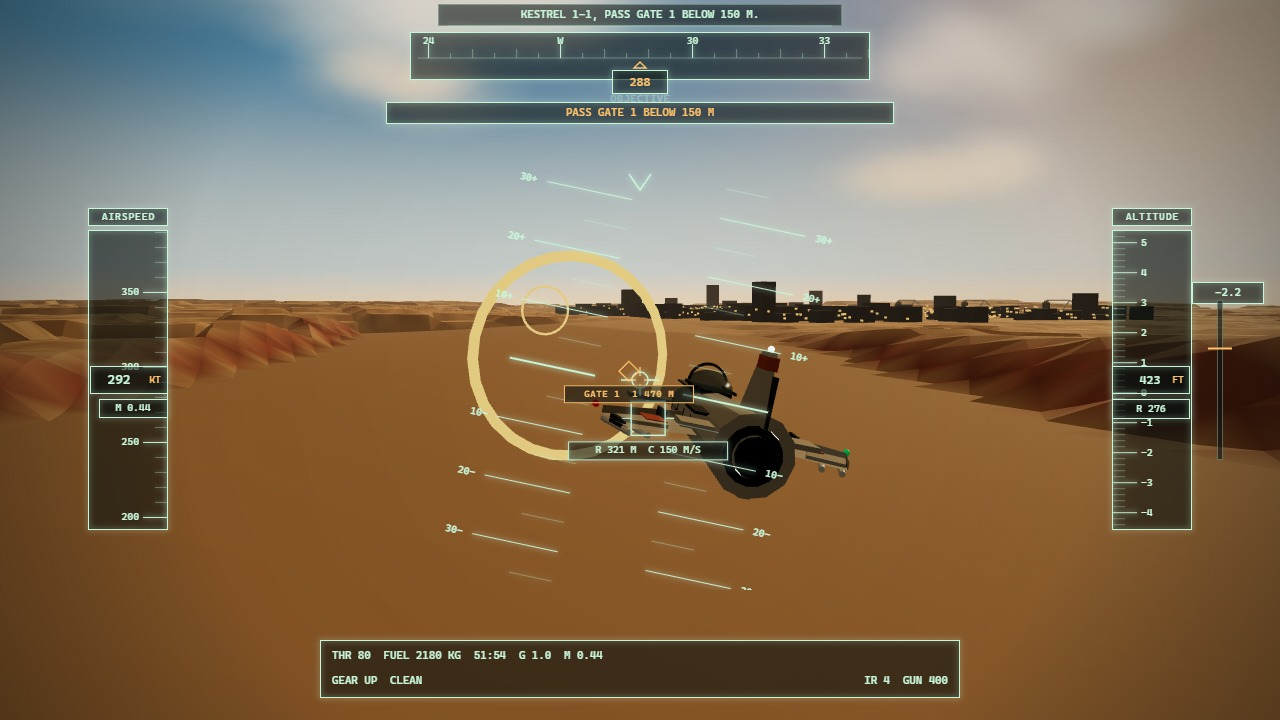
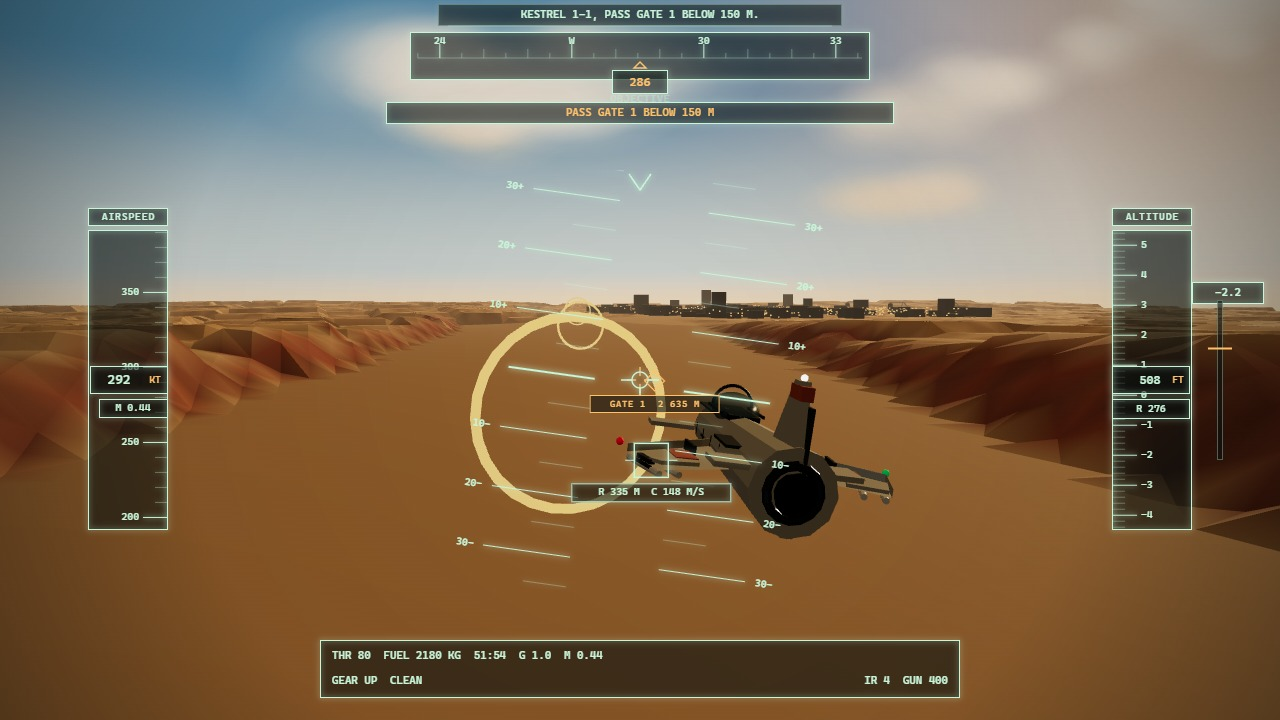
Frame the cover as a canyon run at the eastern gate
Put the hoop dead ahead on the nose so the cover reads as a gate approach.

🤖 Generated with Codebuff

diff --git a/game/src/shots.js b/game/src/shots.js
@@ -43,18 +43,16 @@ export function configureShot(name, app) {
   if (name === 'cover') {
     missions.begin(MISSIONS[0], state, enemies);
     // Run down the canyon toward the central gate, the hoop dead ahead.
-    const gateX = -150, gateZ = canyonCenter(gateX);
-    const slope = 350 * 0.00062 * Math.cos(gateX * 0.00062) + 0.11;
-    const length = Math.hypot(1, slope);
-    const dirX = -1 / length, dirZ = -slope / length;
-    const heading = Math.atan2(dirX, -dirZ);
-    const x = gateX - dirX * 320, z = gateZ - dirZ * 320;
-    pose(state, x, terrain.heightAt(x, z) + 84, z, heading, 0.015, -12 * Math.PI / 180, 150);
+    const gateX = 950, gateZ = canyonCenter(gateX);
+    // Approach along the canyon floor with the hoop exactly on the nose.
+    const x = gateX + 320, z = canyonCenter(x);
+    const heading = Math.atan2(gateX - x, -(gateZ - z));
+    pose(state, x, terrain.heightAt(x, z) + 84, z, heading, 0.015, -8 * Math.PI / 180, 150);
     configureSortie(state, terrain, { missionTime: 12, fuel: 2180, throttle: 0.8, missiles: 4, bombs: 2, gunRounds: 400 });
     state.agl = 84; state.controls.roll = -0.22;
-    setCamera(camera, state, 36, 6, 7, 34, 46);
+    setCamera(camera, state, 34, 7, 8, 40, 46);
     const forward = forwardOf(state);
-    camera.lookAt(state.position.clone().addScaledVector(forward, 34));
+    camera.lookAt(state.position.clone().addScaledVector(forward, 44));
     app.shotTarget = { position: new THREE.Vector3(gateX, terrain.heightAt(gateX, gateZ) + 66, gateZ) };
   } else if (name === 'cockpit') {
     missions.begin(MISSIONS[0], state, enemies);
